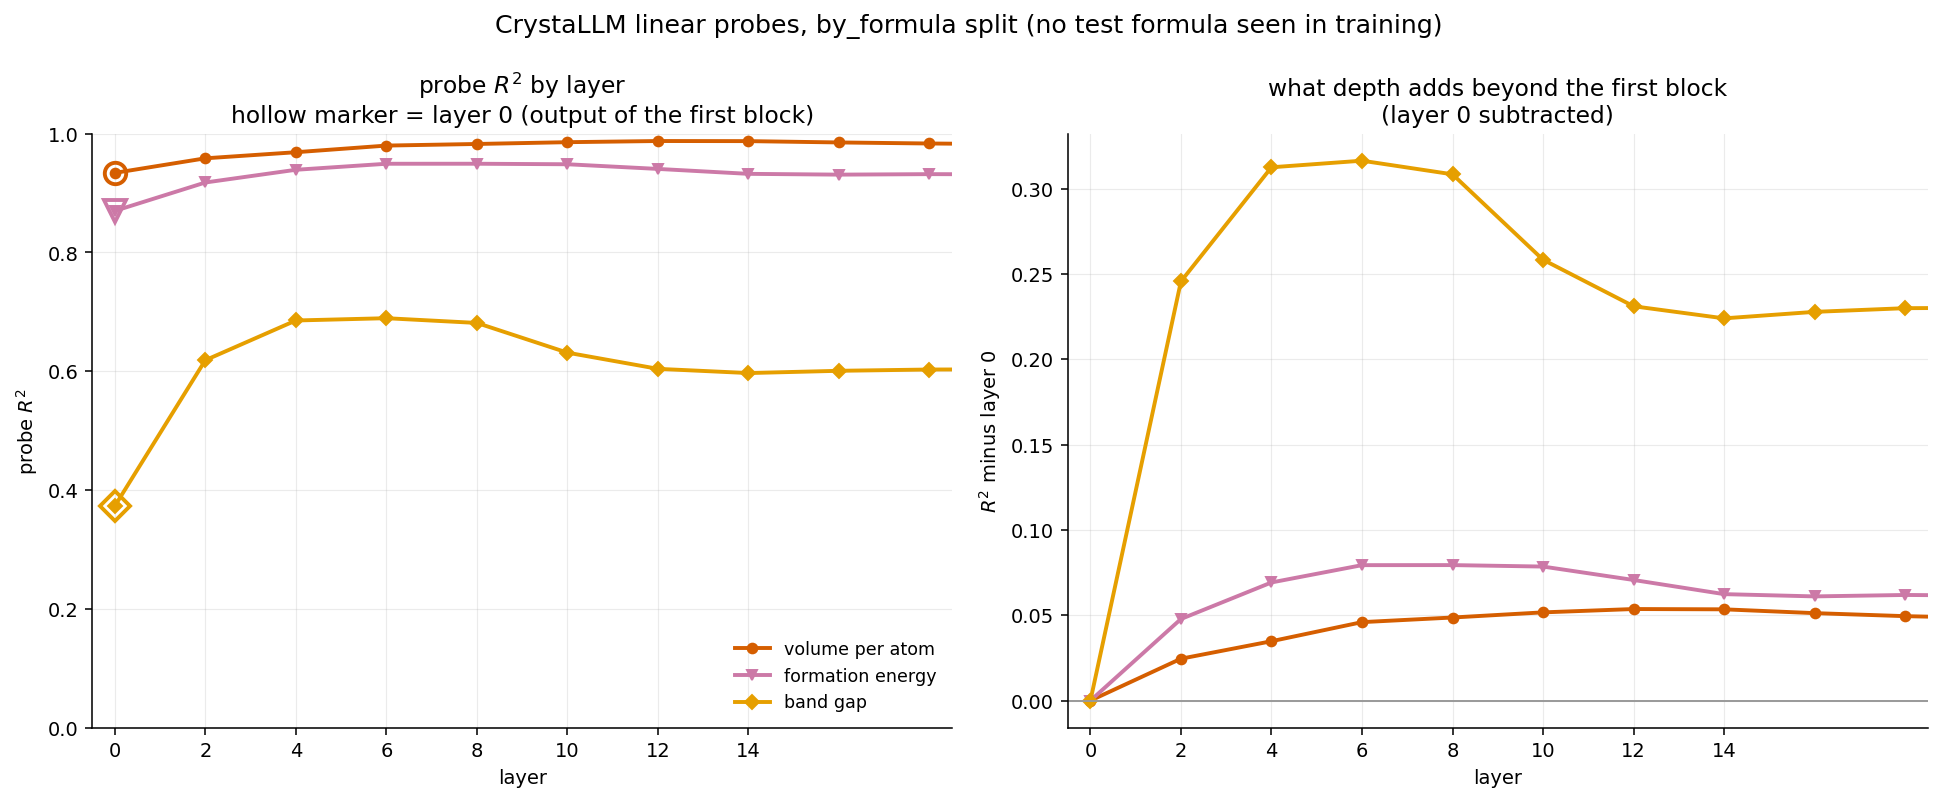
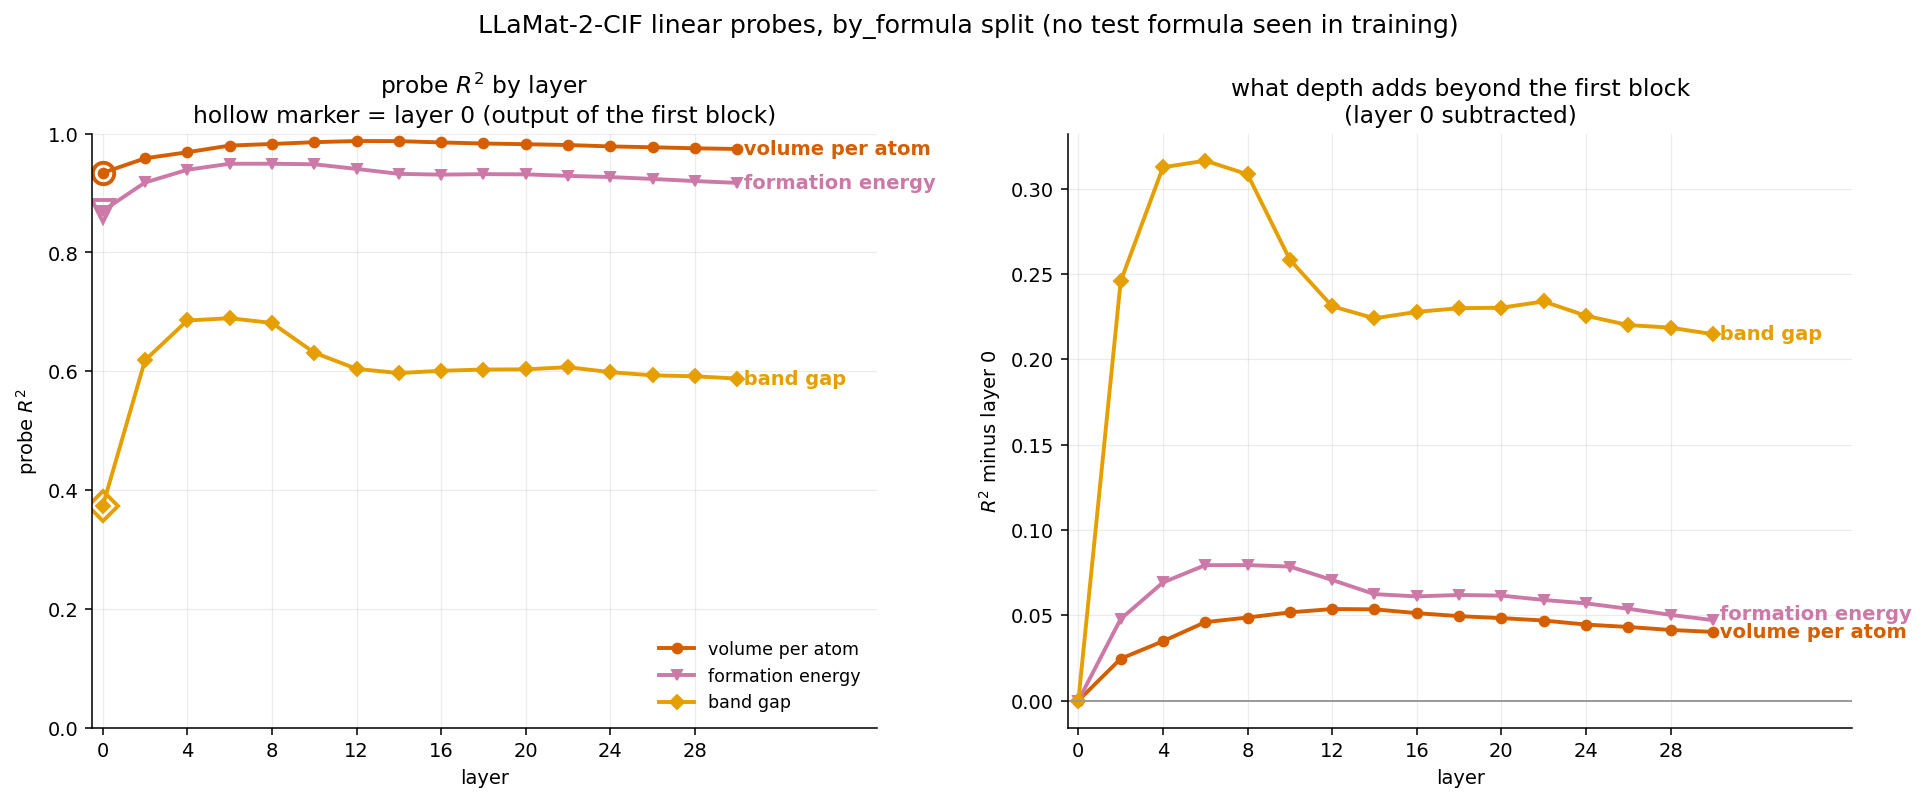
Probe plot: derive the axis from the data instead of assuming 16 layers
set_xlim(-0.5, 18.5) with ticks stopping at 14 was hardcoded for crystallm's 16
blocks, so the llamat2-cif figure silently dropped everything past layer 18 --
half the model. Limits and tick step now come from the layers actually plotted,
keeping the right margin the direct labels are drawn into.

Two more things that were wrong on the same figure: the title said "CrystaLLM"
whatever model was plotted, and converging series printed their labels on top of
each other -- visible where density and formation energy meet in the right panel.
Labels are now placed after the loop with a minimum vertical gap, and titles use
a display name since utils.MODELS holds filesystem-safe spellings.

Both figures regenerated so the tracked PNGs match the code that draws them. The
numbers are unchanged; only the rendering is.

Claude-Session: https://claude.ai/code/session_01EpX8vDJ69TxFi8fcSiWVWg

diff --git a/scripts/plots/plot_property_probe_layers.py b/scripts/plots/plot_property_probe_layers.py
@@ -33,6 +33,11 @@ from utils import (analysis_dir, analysis_root, DEFAULT_MODEL, MODELS,
 # Okabe-Ito, validated for the four-series case: worst adjacent CVD dE 11.0,
 # normal-vision 18.4. Every line is also direct-labelled, which is what the
 # low contrast-vs-surface of the two lighter hues requires.
+# How each registered model is spelled in a figure title; utils.MODELS holds the
+# filesystem-safe names, which are not how anyone writes them.
+DISPLAY_NAME = {"crystallm": "CrystaLLM", "llamat2": "LLaMat-2",
+                "llamat2_cif": "LLaMat-2-CIF"}
+
 # name -> (label, colour, marker). Colour is bound to the PROPERTY, not to plot order,
 # so a subset figure keeps the same colours as the full one and the two can be read side
 # by side.
@@ -115,6 +120,7 @@ def main():
 
     fig, axes = plt.subplots(1, 2, figsize=(14, 5.8), sharex=True)
     rows = []
+    ends = {0: [], 1: []}       # per-panel (x, y, label, colour) for the direct labels
     for label, color, marker, d in loaded:
         x = d["layer"].to_numpy()
         y = d["embedding_r2"].to_numpy()
@@ -123,16 +129,30 @@ def main():
 
         axes[0].plot(x, y, color=color, lw=2, marker=marker, ms=5, label=label)
         axes[0].plot(x[0], l0, marker=marker, ms=11, mfc="none", mec=color, mew=2)
-        axes[0].annotate(f" {label}", (x[-1], y[-1]), color=color, fontsize=10,
-                         va="center", fontweight="bold")
-
         axes[1].plot(x, y - l0, color=color, lw=2, marker=marker, ms=5)
-        axes[1].annotate(f" {label}", (x[-1], y[-1] - l0), color=color, fontsize=10,
-                         va="center", fontweight="bold")
+        # direct labels are placed after the loop, once every endpoint is known
+        ends[0].append((x[-1], y[-1], label, color))
+        ends[1].append((x[-1], y[-1] - l0, label, color))
 
         rows.append({"property": label, "composition_r2": d["composition_r2"].iloc[0],
                      "layer0_r2": l0, "peak_layer": peak, "peak_r2": y.max(),
                      "gain_over_layer0": y.max() - l0})
+
+    # Place the direct labels with a minimum vertical gap. Series that converge -- which
+    # density and formation energy do in the right panel -- would otherwise print their
+    # labels on top of each other.
+    for panel, items in ends.items():
+        ax = axes[panel]
+        lo_y = min(v for _, v, _, _ in items)
+        hi_y = max(v for _, v, _, _ in items)
+        gap = max((hi_y - lo_y) * 0.06, 1e-9)
+        placed = []
+        for xe, ye, label, color in sorted(items, key=lambda t: t[1]):
+            if placed and ye - placed[-1] < gap:
+                ye = placed[-1] + gap
+            placed.append(ye)
+            ax.annotate(f" {label}", (xe, ye), color=color, fontsize=10,
+                        va="center", fontweight="bold")
 
     ax = axes[0]
     ax.set_ylabel("probe $R^2$")
@@ -145,16 +165,25 @@ def main():
     ax.set_ylabel("$R^2$ minus layer 0")
     ax.set_title("what depth adds beyond the first block\n(layer 0 subtracted)")
 
+    # Axis limits come from the DATA, not from a constant. These were hardcoded to
+    # (-0.5, 18.5) with ticks stopping at 14, which silently cut off everything past
+    # layer 18 -- fine for crystallm's 16 blocks, wrong for llamat2-cif's 32.
+    lo = min(d["layer"].min() for *_, d in loaded)
+    hi = max(d["layer"].max() for *_, d in loaded)
+    span = max(hi - lo, 1)
+    step = 2 if span <= 16 else 4
     for ax in axes:
         ax.set_xlabel("layer")
-        ax.set_xlim(-0.5, 18.5)
-        ax.set_xticks(range(0, 16, 2))
+        # right margin carries the direct labels, which are drawn at the last point
+        ax.set_xlim(lo - 0.5, hi + 0.22 * span)
+        ax.set_xticks(range(int(lo), int(hi) + 1, step))
         ax.grid(alpha=0.25, lw=0.6)
         for s in ("top", "right"):
             ax.spines[s].set_visible(False)
 
-    fig.suptitle(f"CrystaLLM linear probes, {args.split} split "
-                 "(no test formula seen in training)", fontsize=13)
+    fig.suptitle(args.title or f"{DISPLAY_NAME.get(args.model, args.model)} linear "
+                 f"probes, {args.split} split (no test formula seen in training)",
+                 fontsize=13)
     fig.tight_layout()
     out = Path(args.out or analysis_root() / "property_probe_r2_by_layer.png")
     out.parent.mkdir(parents=True, exist_ok=True)
